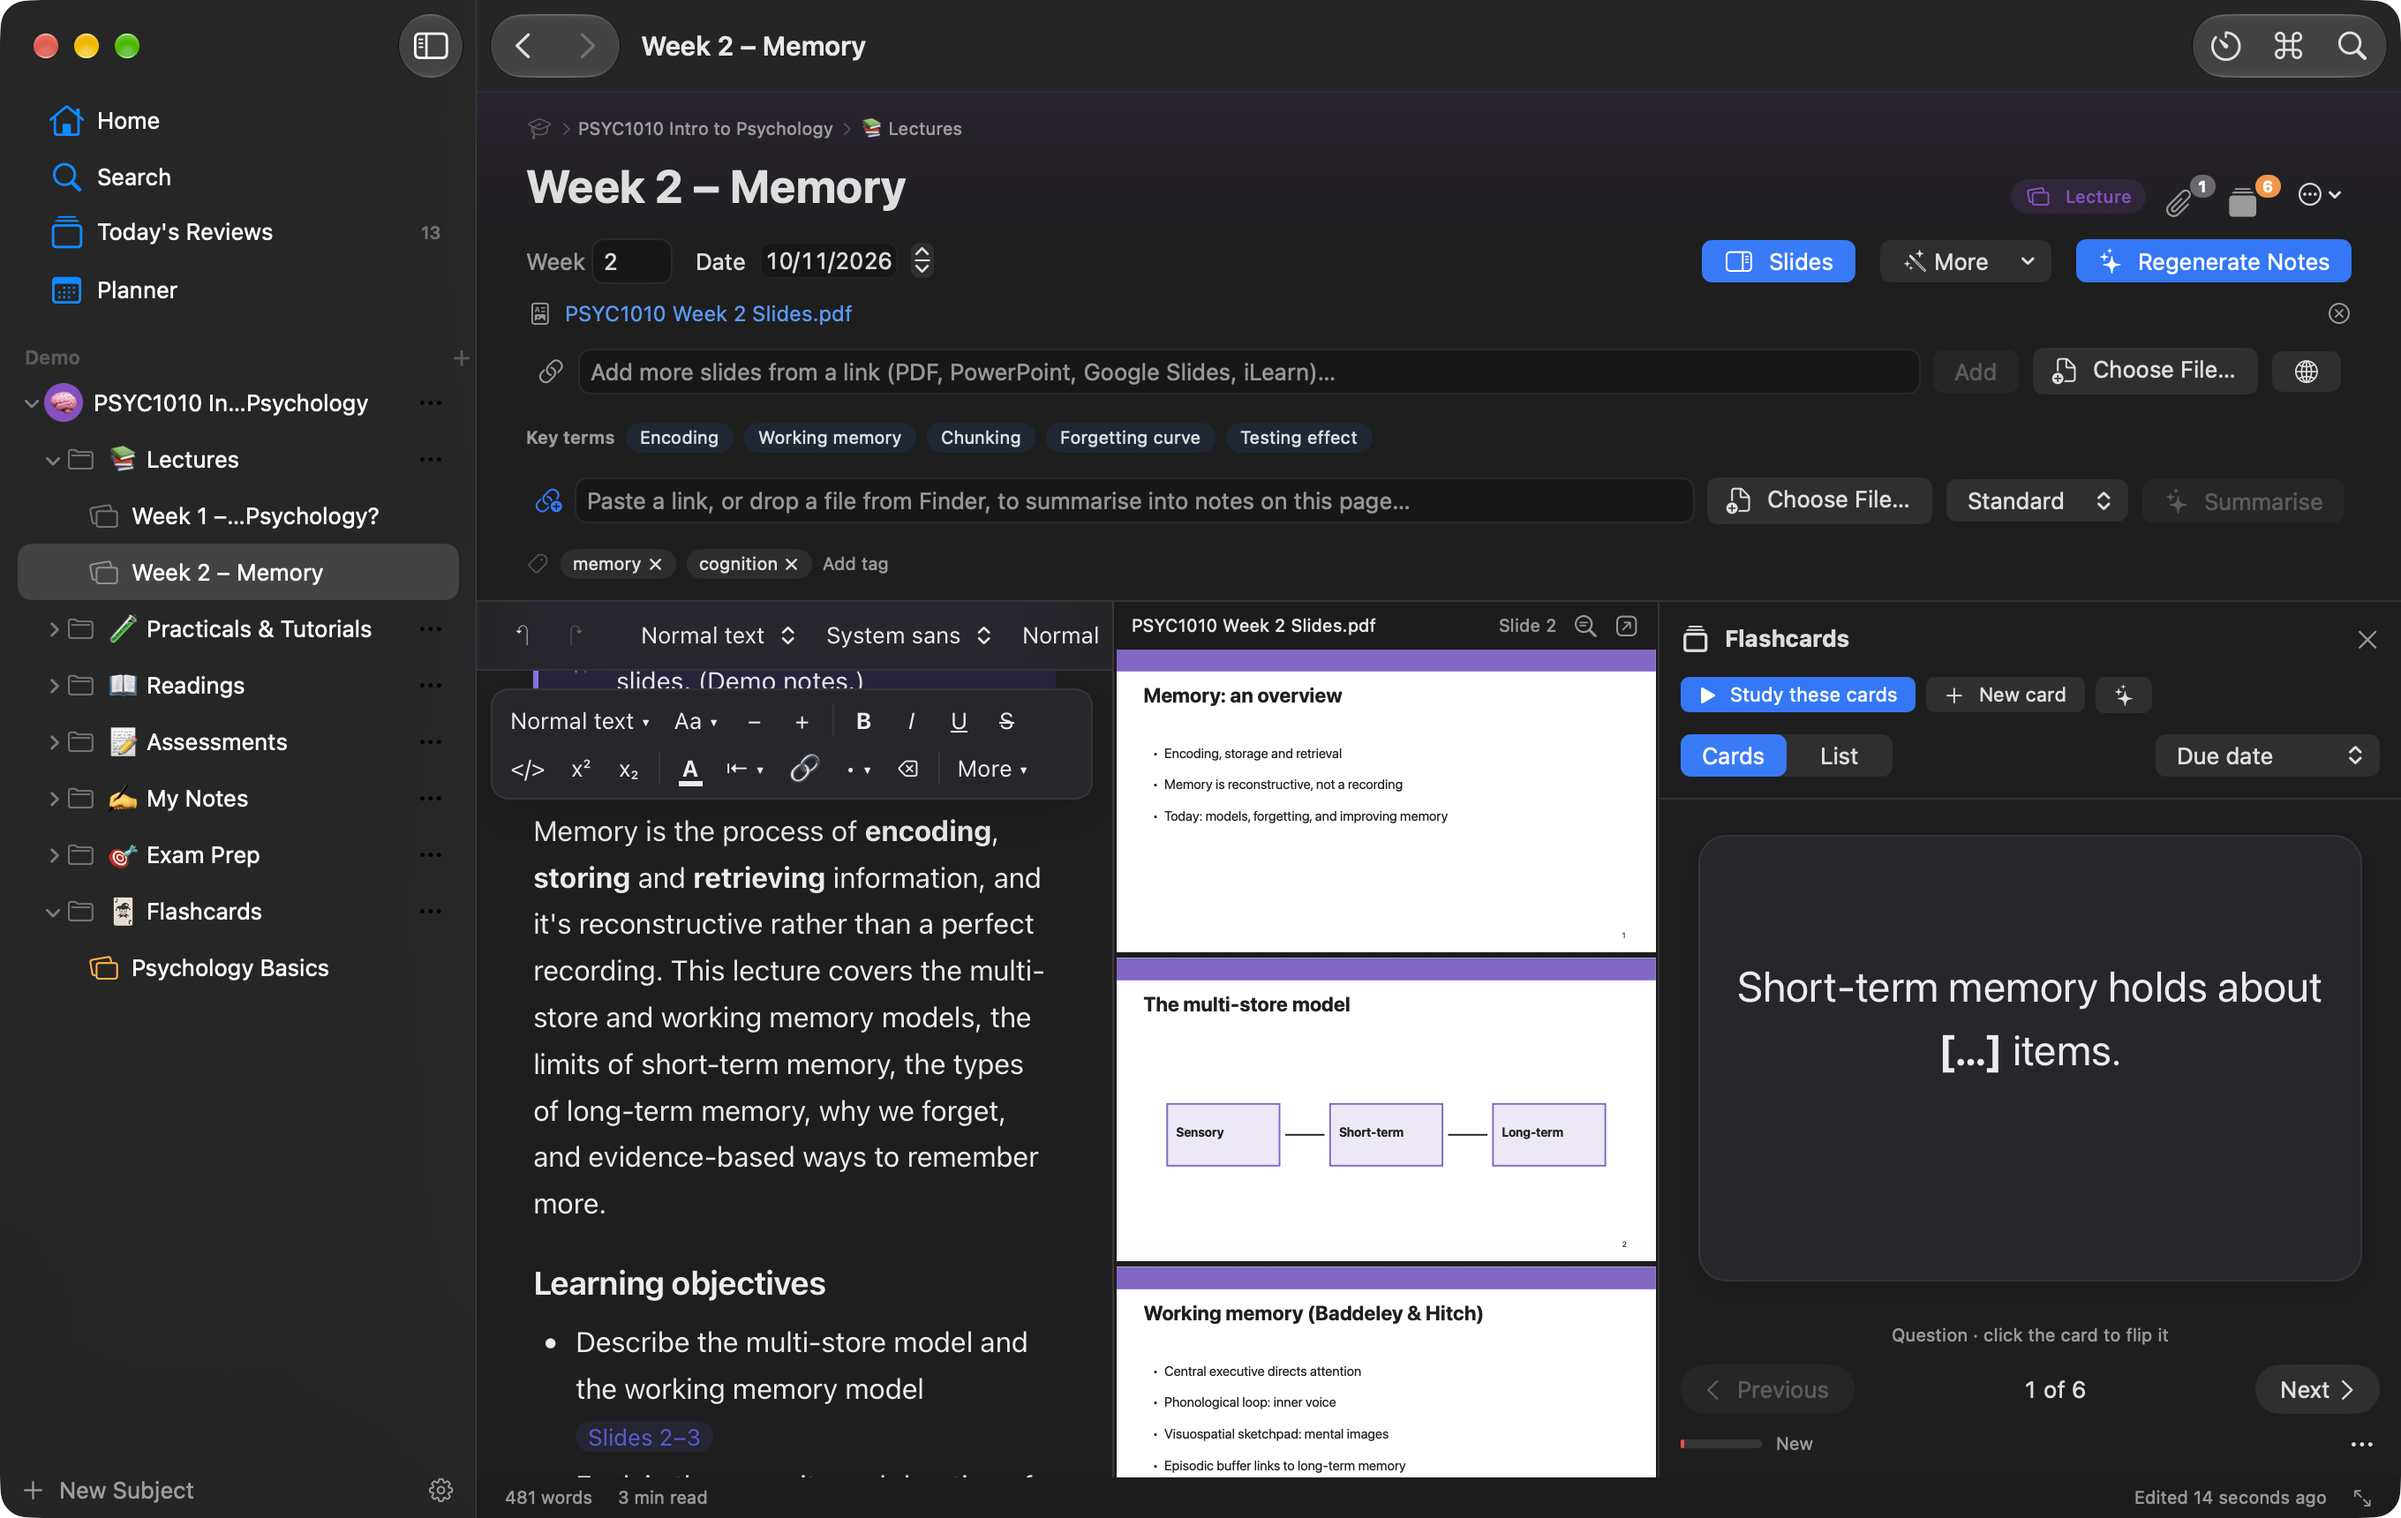
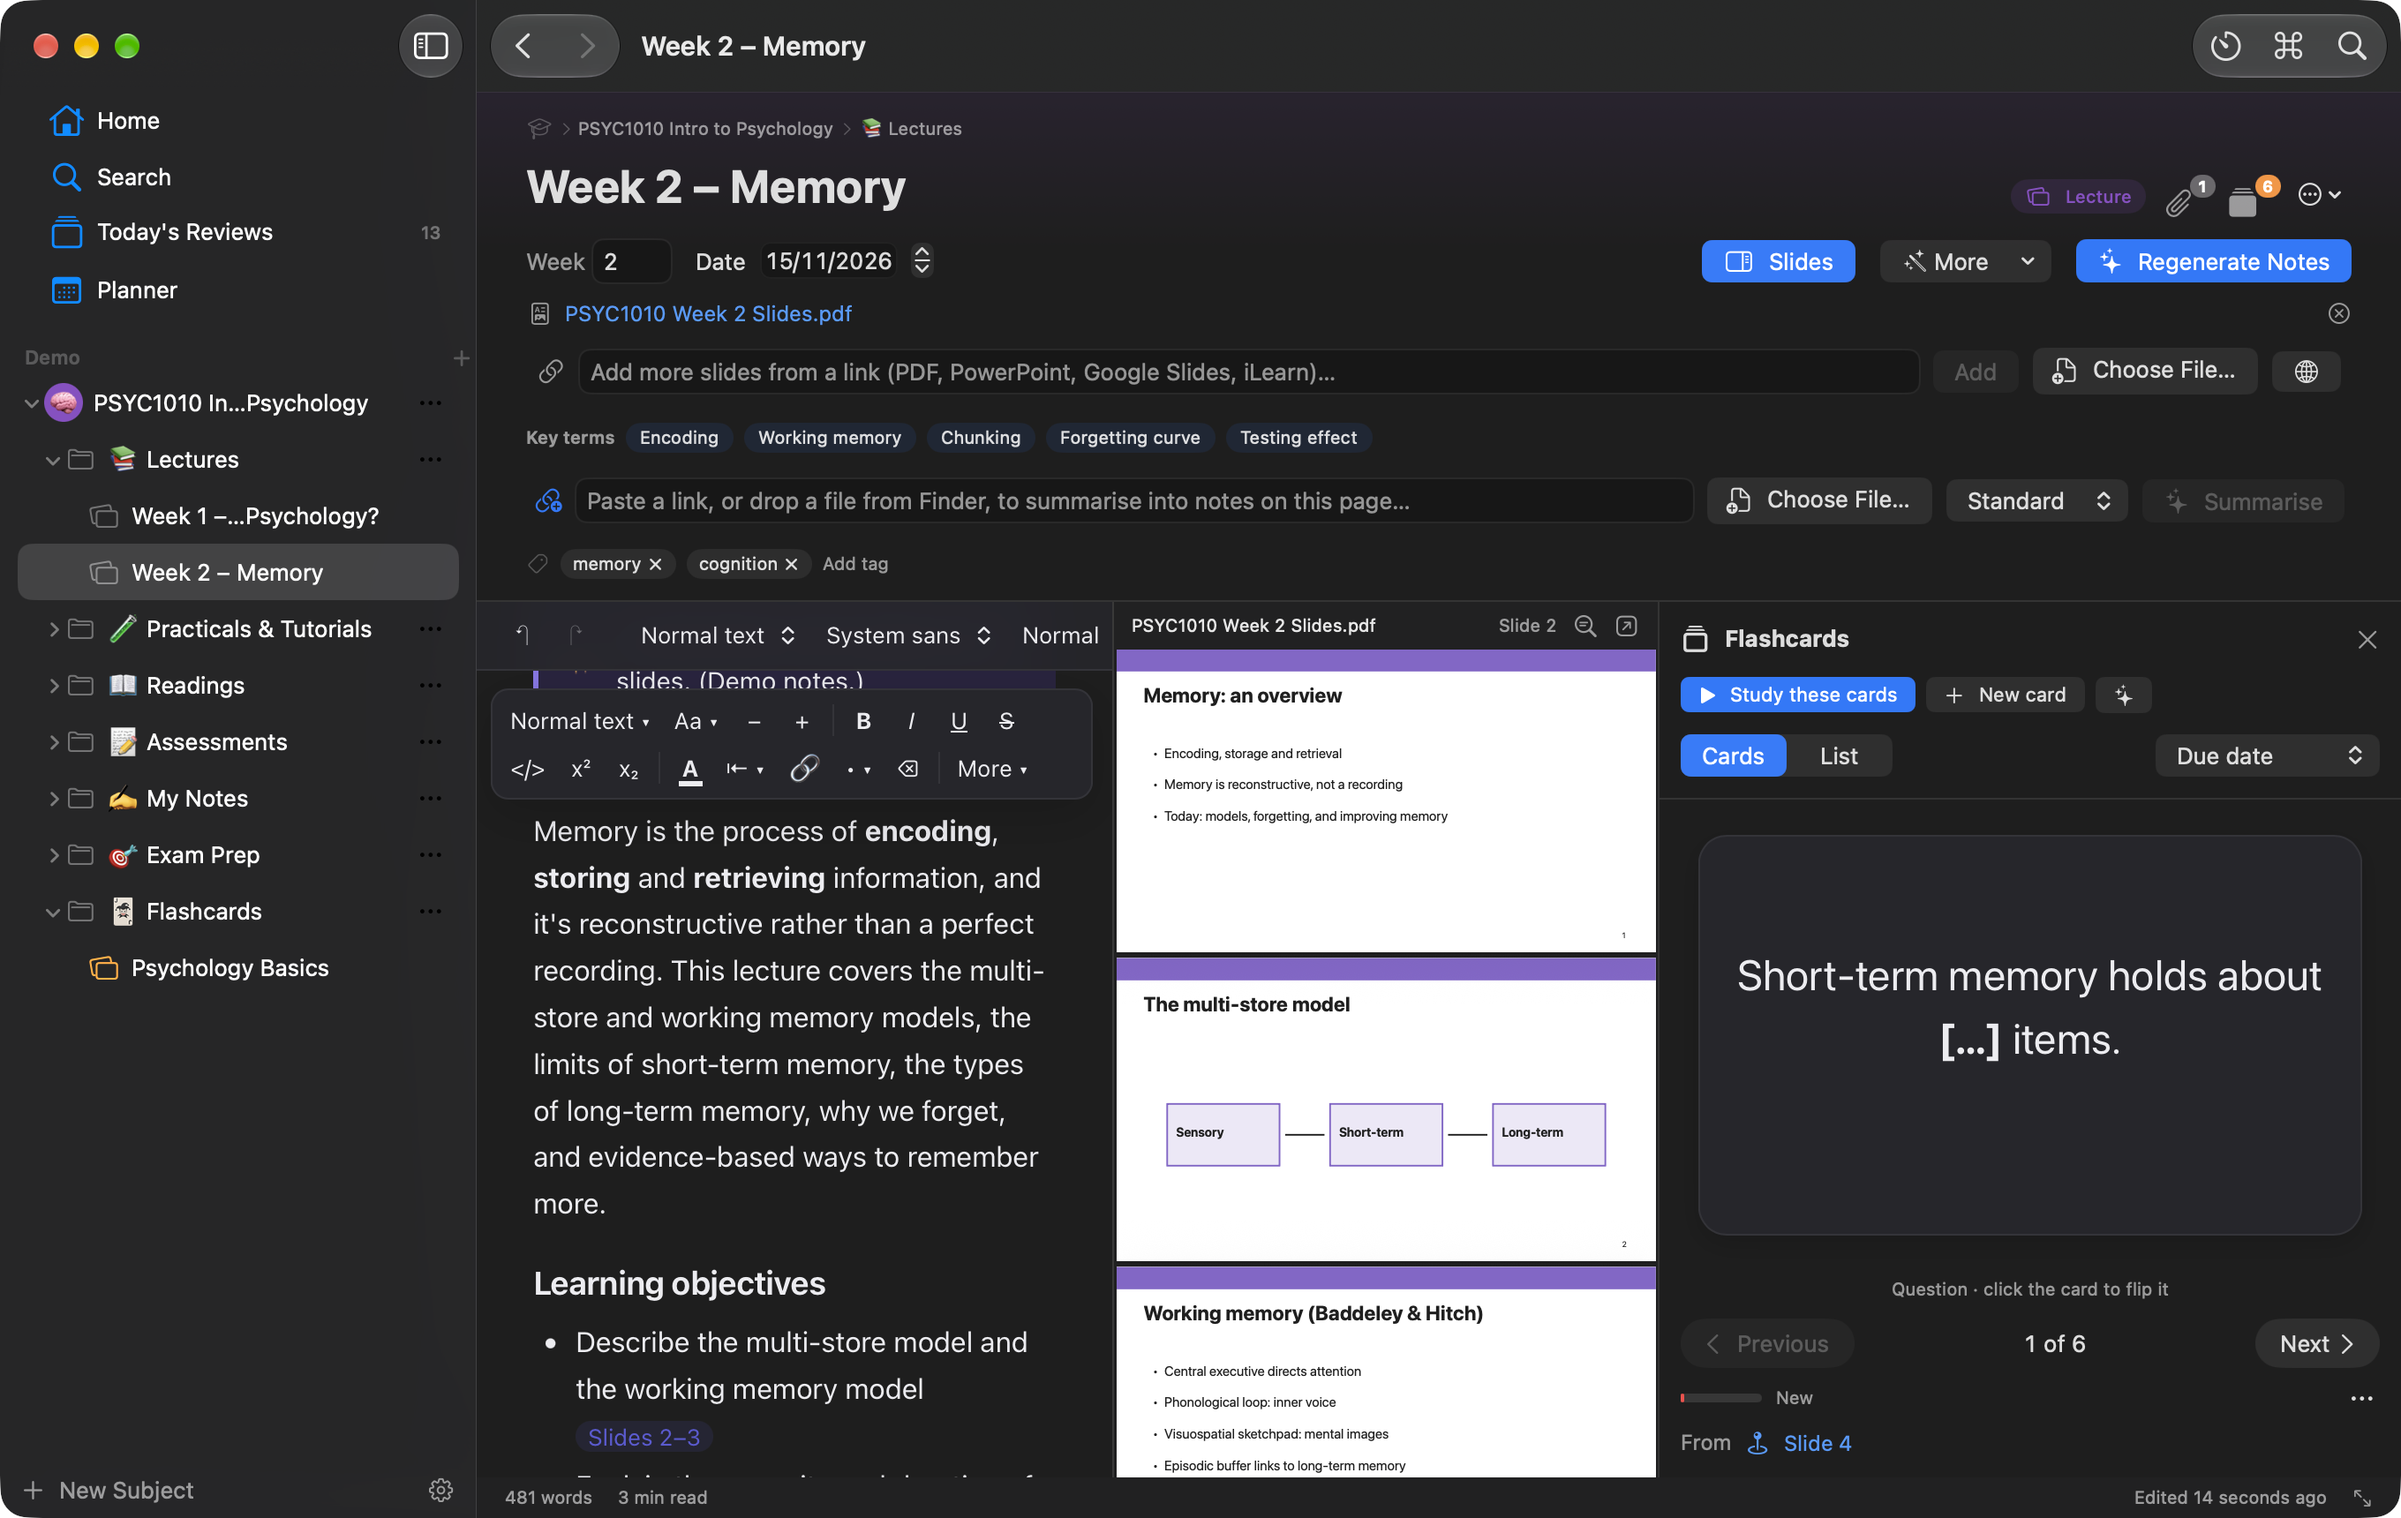
Release 1.5.3

diff --git a/release-notes/1.5.3.html b/release-notes/1.5.3.html
@@ -1,0 +1,4 @@
+<!doctype html><html><head><meta charset="utf-8"><title>Lectern 1.5.3</title>
+<style>body{font:13px -apple-system,sans-serif;margin:16px;color:#222}h2{margin:0 0 4px}h3{margin:14px 0 4px;color:#7a5af0}
+li{margin:3px 0}@media (prefers-color-scheme:dark){body{color:#eee;background:#1e1e1e}}</style></head>
+<body><h2>Lectern 1.5.3</h2><p>Flashcards show which slide or page they came from</p><h3>Added</h3><ul><li>New flashcards show which slide or page their information came from (&quot;From Slide 7&quot;, or &quot;Page 3 · Article&quot; for notes from a link or file), checked against your notes. Click it to open that slide beside your notes, or the link or file. Shown when cards are created, in the page&#x27;s flashcards panel, while studying, in decks and in the page&#x27;s Flashcards section. Cards made from highlighted text get their slide too.</li></ul></body></html>
